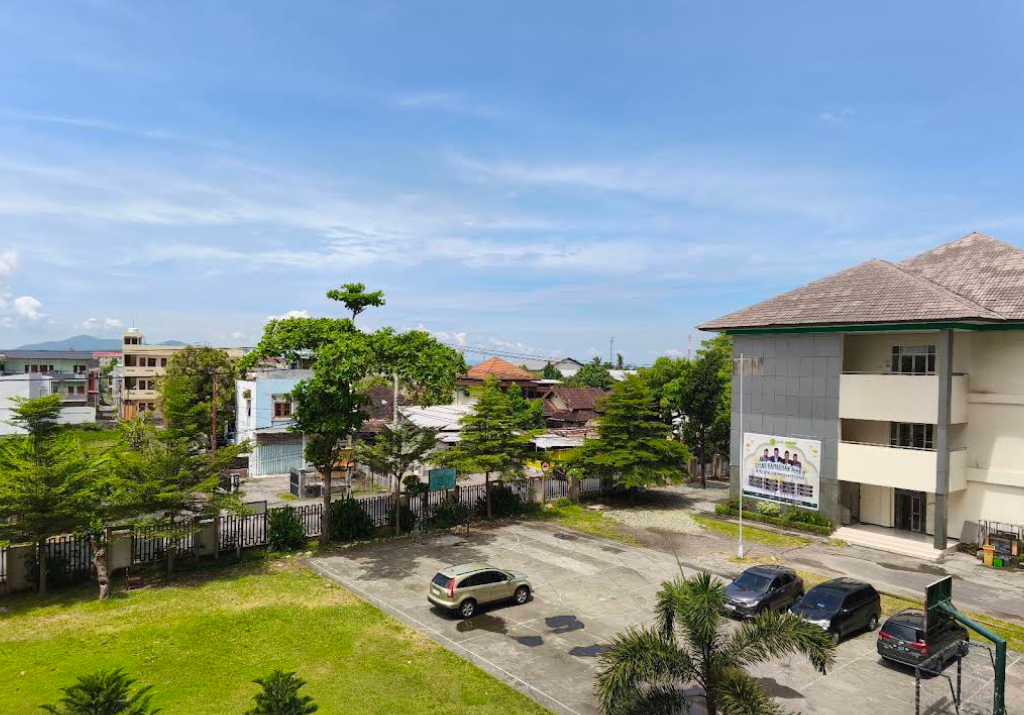
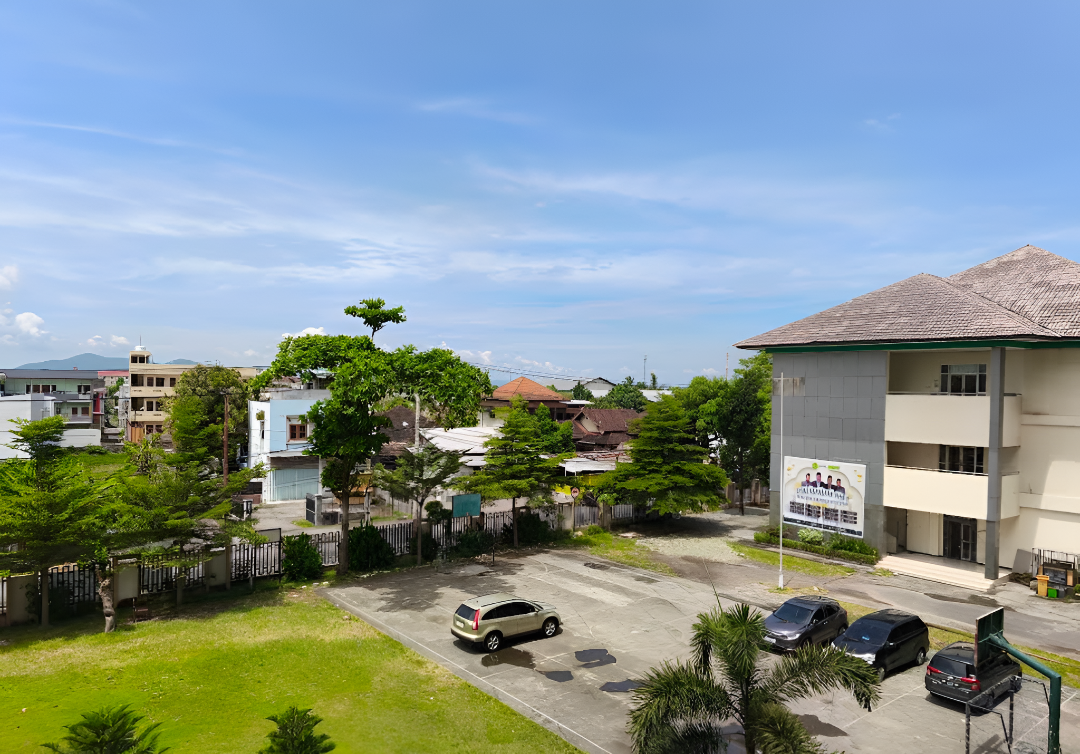
update website

diff --git a/index.html b/index.html
@@ -229,8 +229,8 @@
               <h4>Pamphlet</h4>
               <p>View or download the official conference pamphlet with complete information about ICGIESTec 2026.</p>
               <div class="d-flex gap-2 justify-content-center flex-wrap">
-                <a href="assets/documents/pamphlet.pdf" target="_blank" rel="noopener" class="btn-quick-access"><i class="fas fa-eye"></i> View</a>
-                <a href="assets/documents/pamphlet.pdf" download class="btn-quick-access"><i class="fas fa-download"></i> Download</a>
+                <button type="button" class="btn-quick-access" style="background: transparent; cursor: pointer;" data-bs-toggle="modal" data-bs-target="#pamphletModal"><i class="fas fa-eye"></i> View</button>
+                <a href="assets/images/pamflet.jpeg" download class="btn-quick-access"><i class="fas fa-download"></i> Download</a>
               </div>
             </div>
           </div>
@@ -416,10 +416,7 @@
 
         <!-- ─── ADVISORY BOARD ─── -->
         <div class="committee-block" data-aos="fade-up">
-          <div class="committee-block-header advisory">
-            <div class="committee-block-icon"><i class="fas fa-star"></i></div>
-            <h3>Advisory Board</h3>
-          </div>
+          <h3 class="text-center mb-4">Advisory Board</h3>
           <div class="row g-3 justify-content-center">
             <!-- Advisory 1 — replace filename below with actual photo -->
             <div class="col-lg-3 col-md-5 col-sm-6 d-flex" data-aos="fade-up" data-aos-delay="0">
@@ -452,10 +449,7 @@
 
         <!-- ─── STEERING COMMITTEE ─── -->
         <div class="committee-block" data-aos="fade-up">
-          <div class="committee-block-header steering">
-            <div class="committee-block-icon"><i class="fas fa-compass"></i></div>
-            <h3>Steering Committee</h3>
-          </div>
+          <h3 class="text-center mt-5 mb-4">Steering Committee</h3>
           <div class="committee-members-list">
             <div class="committee-member-card steering-member" id="steeringMember1">
               <div class="cmember-avatar" style="background:linear-gradient(135deg,#0D47A1,#1565C0);">
@@ -475,10 +469,7 @@
 
         <!-- ─── SCIENTIFIC COMMITTEE ─── -->
         <div class="committee-block" data-aos="fade-up">
-          <div class="committee-block-header scientific">
-            <div class="committee-block-icon"><i class="fas fa-microscope"></i></div>
-            <h3>Scientific Committee</h3>
-          </div>
+          <h3 class="text-center mt-5 mb-4">Scientific Committee</h3>
           <div class="committee-members-grid">
 
             <div class="committee-member-card" id="sciMember1">
@@ -1199,6 +1190,33 @@
       </div>
     </div>
   </footer>
+
+  <!-- ============================================================
+       PAMPHLET MODAL
+       ============================================================ -->
+  <div class="modal fade" id="pamphletModal" tabindex="-1" aria-labelledby="pamphletModalLabel" aria-hidden="true">
+    <div class="modal-dialog modal-dialog-centered modal-lg">
+      <div class="modal-content" style="border-radius: var(--radius-lg); border: none; overflow: hidden; box-shadow: var(--shadow-xl);">
+        <div class="modal-header bg-white" style="border-bottom: 1px solid var(--border-light); padding: 16px 24px;">
+          <h5 class="modal-title" id="pamphletModalLabel" style="font-weight: 700; color: var(--primary); font-family: var(--font-heading);">
+            <i class="fas fa-file-alt me-2 text-warning"></i>ICGIESTec 2026 Pamphlet
+          </h5>
+          <button type="button" class="btn-close" data-bs-dismiss="modal" aria-label="Close"></button>
+        </div>
+        <div class="modal-body p-0 text-center bg-light-alt" style="position: relative; max-height: 70vh; overflow-y: auto;">
+          <img src="assets/images/pamflet.jpeg" class="img-fluid" alt="ICGIESTec 2026 Pamphlet" style="width: 100%; height: auto; max-height: 100%; object-fit: contain;">
+        </div>
+        <div class="modal-footer bg-white" style="border-top: 1px solid var(--border-light); padding: 16px 24px; display: flex; justify-content: space-between; align-items: center;">
+          <button type="button" class="btn btn-secondary px-4 py-2" data-bs-dismiss="modal" style="border-radius: 50px; font-family: var(--font-heading); font-weight: 600; font-size: 0.85rem;">
+            Close
+          </button>
+          <a href="assets/images/pamflet.jpeg" download="ICGIESTec-2026-Pamphlet.jpeg" class="btn btn-register-nav px-4 py-2" style="margin: 0; box-shadow: var(--shadow-sm);">
+            <i class="fas fa-download me-2"></i>Download Pamphlet
+          </a>
+        </div>
+      </div>
+    </div>
+  </div>
 
   <!-- ============================================================
        BACK TO TOP BUTTON

diff --git a/css/style.css b/css/style.css
@@ -973,12 +973,7 @@ img {
 }
 
 .committee-block {
-  background: var(--bg-white);
-  border-radius: var(--radius-xl);
-  box-shadow: var(--shadow-sm);
-  border: 1px solid var(--border-light);
-  overflow: hidden;
-  margin-bottom: 28px;
+  margin-bottom: 48px;
 }
 
 /* Block header bar */
@@ -1026,12 +1021,12 @@ img {
 
 /* Advisory photo area */
 .committee-block .row {
-  padding: 24px 16px;
+  padding: 24px 0;
 }
 
 /* Member list (Steering — horizontal row) */
 .committee-members-list {
-  padding: 20px 24px;
+  padding: 20px 0;
   display: flex;
   flex-direction: column;
   gap: 12px;
@@ -1039,7 +1034,7 @@ img {
 
 /* Member grid (Scientific — multi-column) */
 .committee-members-grid {
-  padding: 20px 24px;
+  padding: 20px 0;
   display: grid;
   grid-template-columns: repeat(auto-fill, minmax(240px, 1fr));
   gap: 14px;